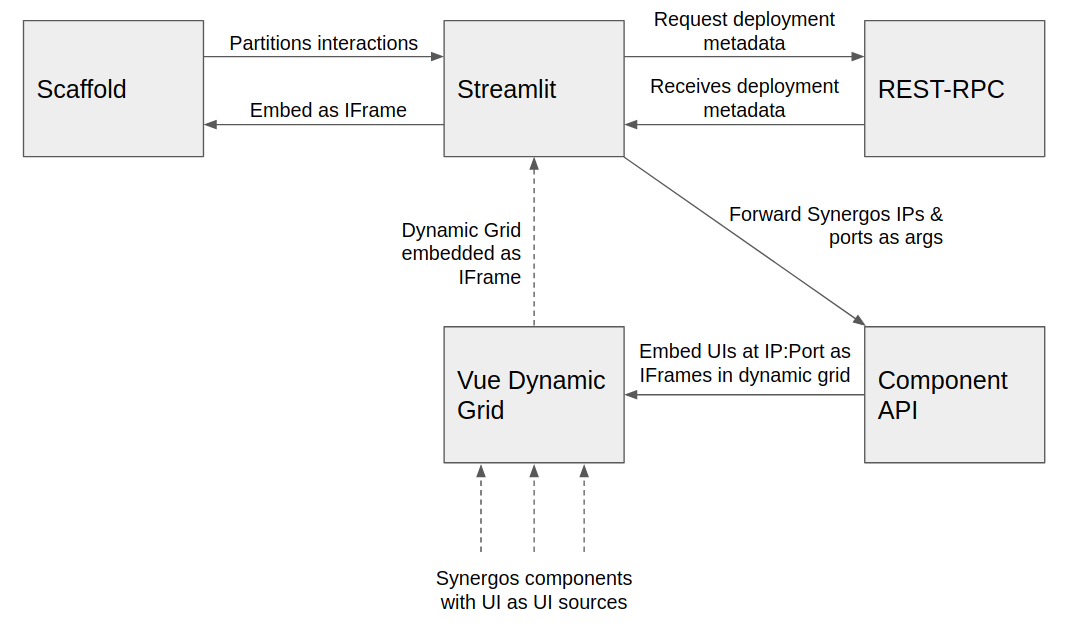
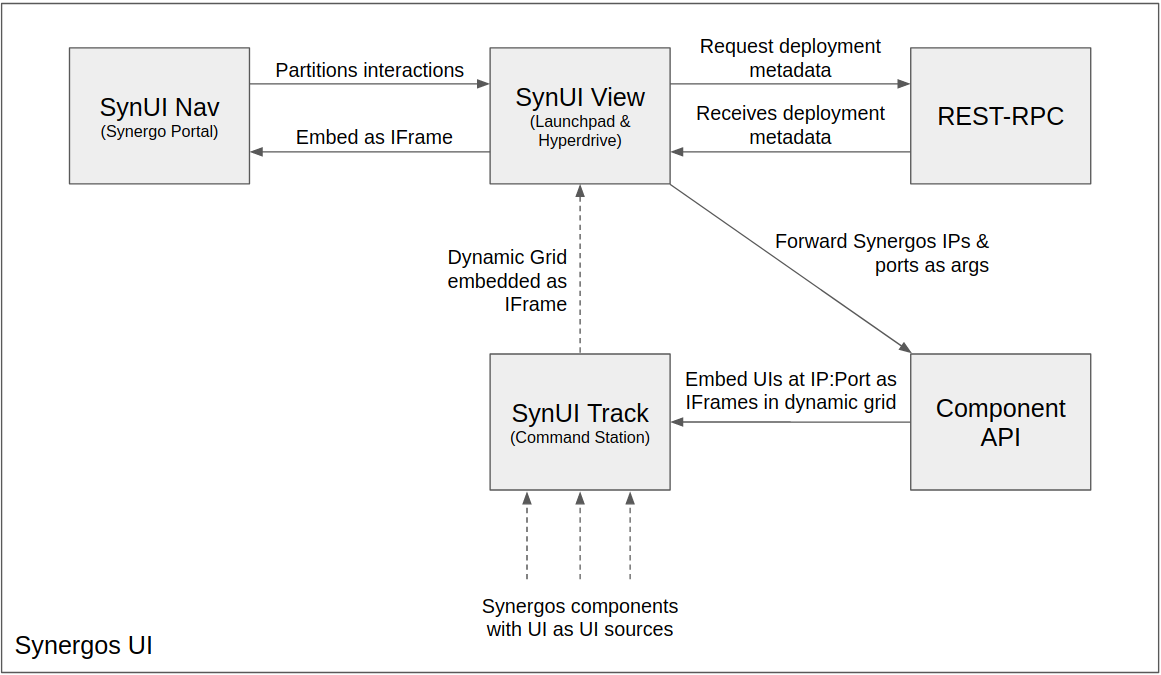
Updated README.md with module names

diff --git a/README.md b/README.md
@@ -12,7 +12,7 @@ It interacts with Synergos REST services embedded within any orchestrating compo
 
 ![Synergos UI architecture](./docs/images/ui_architecture.png)
 
-Furthermore, the general architecture of the system is flexible incorporate new external frameworks. 
+Furthermore, the general architecture of the system is flexible incorporate new external frameworks. The **Synergos UI** component comprizes of 3 sub-apps, ***SynUI Nav***, ***SynUI View*** & ***SynUI Track***. This architecture will allow us to embed most UI components, and thus enhances future compatibility.
 
 ---
 <br>
@@ -40,7 +40,7 @@ Once all services are up, navigate to `"<protocol>://<address>:<port>"`
 - `<address>`: Address of host machine
 - `<port>`: Port at which `synui_nav` is hosted at (default: `4000`)
 
-You should come to this landing page.
+You should arrive at this landing page.
 
 ![Synergos UI Landing](./docs/images/ui_landing.png)
 
@@ -80,4 +80,5 @@ Participants will be able to:
 
 *Command Station*
 
-Lastly, all components deployed can be tracked within the `Command Station`!
+Lastly, all components deployed can be tracked and easily accessed within the `Command Station`!
+> Note: Each window is resizable, movable and locking. So feel free to re-arrange and customize your views!
